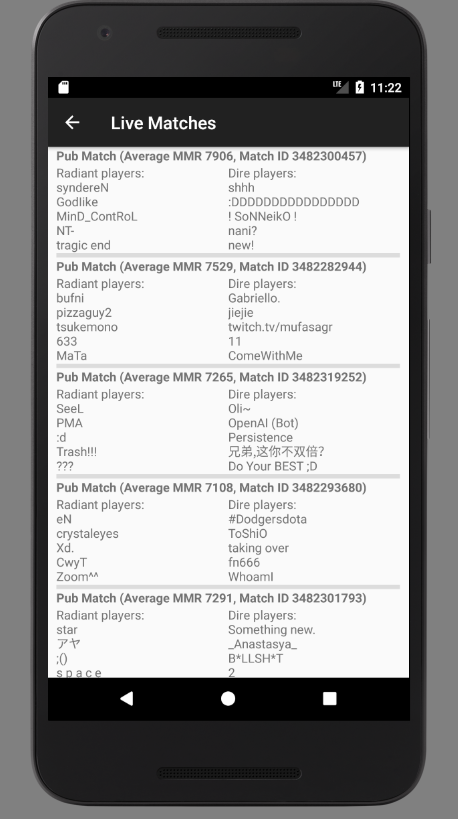
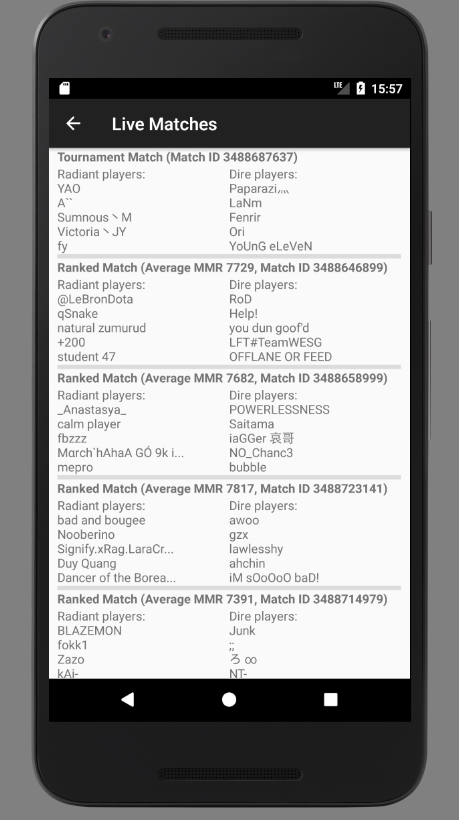
Updated screenshot and README.md

diff --git a/README.md b/README.md
@@ -36,7 +36,7 @@ If you see this screen, your setup is complete.
 
 ## Using the app
 
-Click on `LIVE MATCHES` to enter a new Activity that shows the current top 10 live matches fetched from the official Dota 2 API. Example with pro players syndereN, MinD_ContRoL and SoNNeikO playing a ranked/pub match:
+Click on `LIVE MATCHES` to enter a new Activity that shows the current top 10 live matches fetched from the official Dota 2 API. Example with a Chinese qualifier match (DreamLeague Season 8) and several high MMR ranked matches:
 
 <img src="screenshots/activity_live_matches.png" width="230" height="410"/>
 
